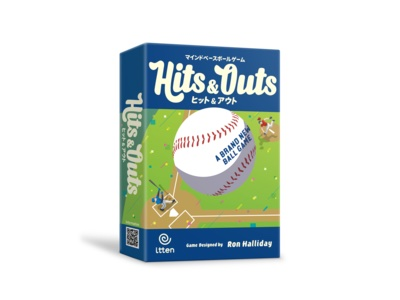
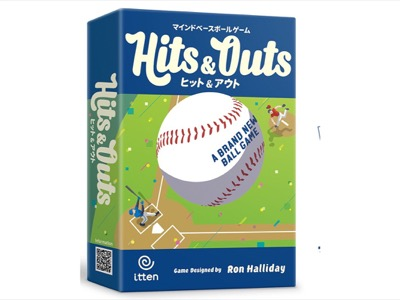
編集パネルから表紙（箱写真）を差し替え可能に／ストライク・ヒット＆アウトの箱写真

diff --git a/index.html b/index.html
@@ -1166,6 +1166,12 @@
   .want-btn.on { background: var(--accent); color: #fff; }
   .want-btn.done { border-color: var(--border); background: var(--bg); color: var(--text-sub); cursor: default; }
   .edit-panel { border-color: var(--accent); }
+  .cover-edit { display: flex; gap: 12px; align-items: flex-start; margin-bottom: 6px; }
+  .cover-edit img { width: 120px; height: 90px; object-fit: contain; background: #fff; border: 1px solid var(--border); border-radius: 8px; flex-shrink: 0; }
+  .cover-edit-body { flex: 1; min-width: 0; display: flex; flex-direction: column; gap: 6px; }
+  .cover-edit-body .photo-add { margin: 0; }
+  .cover-edit-body .link-btn { align-self: flex-start; font-size: 12px; }
+  .cover-edit-body .link-btn.danger { color: #c0392b; }
   .edit-sec-title {
     font-size: 12.5px;
     font-weight: 700;
@@ -2939,7 +2945,7 @@ try {
 // ── 自動更新 ───────────────────────────────
 // iPhoneはHTMLを長く握るので、新しい版が出ていたらURLを変えて読み直す。
 // （同じURLの再読み込みだとキャッシュが返ってきてしまうため）
-const APP_BUILD = "2026-09-11-2120";
+const APP_BUILD = "2026-09-11-2142";
 
 function markVersion(extra) {
   const el = document.getElementById("appVersion");
@@ -3537,6 +3543,8 @@ const IMG_SIZES = {
 };
 
 function gameImg(g, kind) {
+  const ov = g && coverOverride[slugOf(g)];
+  if (ov) return ov;   // 差し替えた箱写真があれば、一覧・詳細・棚すべてそれを使う
   const url = (g && g.img) || "";
   const spec = IMG_SIZES[kind] || IMG_SIZES.card;
   return url.replace(/small_light\([^)]*\)/, "small_light(" + spec + ")");
@@ -3941,7 +3949,8 @@ function fetchAllReviews() {
     fetchCollectionCache("customtags", CUSTOMTAGS_CACHE_KEY).then(c => { customTagsCache = c; }),
     fetchCollectionCache("ruleedits", RULEEDITS_CACHE_KEY).then(c => { ruleEditsCache = c; }),
     fetchProfiles().then(c => { profilesCache = c; }),
-    fetchSessions().then(c => { sessionsCache = c; })
+    fetchSessions().then(c => { sessionsCache = c; }),
+    fetchCoverOverrides()
   ]);
 }
 
@@ -4639,6 +4648,19 @@ const PHOTO_MAX_PX = 1400;
 const PHOTO_MAX_BYTES = 700000;
 let photoCache = {};          // slug -> [写真]
 let photoLoading = {};
+// 差し替えた箱写真（photos の kind="cover"）。起動時に全部まとめて読む
+let coverOverride = {};       // slug -> dataURL
+let coverOverrideId = {};     // slug -> doc id（差し替え・削除用）
+function fetchCoverOverrides() {
+  if (!firebaseReady) return Promise.resolve();
+  return db.collection("photos").where("kind", "==", "cover").get().then(snap => {
+    const rows = [];
+    snap.forEach(d => rows.push(Object.assign({ id: d.id }, d.data())));
+    rows.sort((a, b) => (a.createdAt?.seconds || 0) - (b.createdAt?.seconds || 0));
+    coverOverride = {}; coverOverrideId = {};
+    rows.forEach(r => { coverOverride[r.slug] = r.data; coverOverrideId[r.slug] = r.id; });
+  }).catch(err => console.error("cover取得エラー", err));
+}
 function getPhotos(slug, kind) {
   return (photoCache[slug] || []).filter(p => p.kind === kind);
 }
@@ -4661,14 +4683,14 @@ function fetchPhotos(slug) {
 }
 
 // 端末側で長辺1400pxまで縮め、700KBを超えないところまで品質を落とす
-function shrinkImage(file) {
+function shrinkImage(file, maxPx = PHOTO_MAX_PX) {
   return new Promise((resolve, reject) => {
     const url = URL.createObjectURL(file);
     const img = new Image();
     img.onload = () => {
       URL.revokeObjectURL(url);
       let w = img.naturalWidth, h = img.naturalHeight;
-      const scale = Math.min(1, PHOTO_MAX_PX / Math.max(w, h));
+      const scale = Math.min(1, maxPx / Math.max(w, h));
       w = Math.max(1, Math.round(w * scale));
       h = Math.max(1, Math.round(h * scale));
       const c = document.createElement("canvas");
@@ -4853,6 +4875,19 @@ function buildEditPanel(g) {
     <div class="review-card edit-panel">
       <div class="review-title" style="margin-bottom:4px;">このゲームを編集</div>
       <div class="review-count" style="margin-bottom:10px;">変えたところは、みんなの画面にも反映されます。</div>
+
+      <div class="edit-sec-title">表紙（箱の写真）</div>
+      <div class="cover-edit">
+        <img src="${coverSrc(slug)}" alt="表紙" onerror="this.src='${gameImg(g, "card")}'">
+        <div class="cover-edit-body">
+          <div class="review-count">背景が白い「箱だけ」の写真だと棚がきれいに見えます。一覧・詳細・棚に反映されます。</div>
+          <label class="photo-add">
+            <input type="file" accept="image/*" data-cover-add="${slug}" hidden>
+            📷 ${coverOverride[slug] ? "別の写真に差し替える" : "箱の写真に差し替える"}
+          </label>
+          ${coverOverride[slug] ? `<button type="button" class="link-btn ${pendingPhotoDelete === "cover:" + slug ? "danger" : ""}" data-cover-reset="${slug}">${pendingPhotoDelete === "cover:" + slug ? "本当に元に戻す？" : "元の写真に戻す"}</button>` : ""}
+        </div>
+      </div>
 
       <div class="edit-sec-title">ジャンル・メカニクス・ハッシュタグ</div>
       ${buildClassGrid(g)}
@@ -5363,6 +5398,24 @@ document.getElementById("detailView").addEventListener("click", async e => {
     const table = moreRatings.closest("table");
     const open = table.classList.toggle("open");
     moreRatings.textContent = open ? "たたむ" : moreRatings.dataset.label;
+    return;
+  }
+  const coverReset = e.target.closest("[data-cover-reset]");
+  if (coverReset) {
+    const slug = coverReset.dataset.coverReset;
+    if (pendingPhotoDelete !== "cover:" + slug) {
+      pendingPhotoDelete = "cover:" + slug;
+      coverReset.textContent = "本当に元に戻す？"; coverReset.classList.add("danger");
+      setTimeout(() => { if (pendingPhotoDelete === "cover:" + slug) { pendingPhotoDelete = ""; const g = currentDetailGame(); if (g) showDetail(g); } }, 4000);
+      return;
+    }
+    pendingPhotoDelete = "";
+    const id = coverOverrideId[slug];
+    if (id) await deletePhoto(slug, id);
+    delete coverOverride[slug]; delete coverOverrideId[slug];
+    const g = currentDetailGame();
+    if (g) showDetail(g);
+    toast("元の写真に戻しました");
     return;
   }
   if (e.target.closest("[data-detail-edit]")) {
@@ -6375,6 +6428,31 @@ function toast(msg) {
 
 // 写真を選んだら、その場で縮めて保存する
 document.getElementById("detailView").addEventListener("change", async e => {
+  const coverInput = e.target.closest("[data-cover-add]");
+  if (coverInput && coverInput.files && coverInput.files[0]) {
+    const file = coverInput.files[0];
+    const slug = coverInput.dataset.coverAdd;
+    const name = ensureMyName();
+    coverInput.value = "";
+    if (!name) return;
+    toast("写真を用意しています…");
+    try {
+      const data = await shrinkImage(file, 800);
+      const oldId = coverOverrideId[slug];
+      const id = await addPhoto(slug, "cover", data, name);
+      if (id) {
+        coverOverride[slug] = data; coverOverrideId[slug] = id;
+        if (oldId) await deletePhoto(slug, oldId);   // 先に足してから古いほうを消す
+        toast("表紙を差し替えました");
+      }
+      const g = currentDetailGame();
+      if (g) showDetail(g);
+    } catch (err) {
+      console.error("表紙の処理に失敗", err);
+      toast(err.message || "この写真は使えませんでした");
+    }
+    return;
+  }
   const input = e.target.closest("[data-photo-add]");
   if (!input || !input.files || !input.files[0]) return;
   const file = input.files[0];
@@ -7817,7 +7895,7 @@ function shelfGames(name) {
     .slice(0, SHELF_COLS * SHELF_ROWS);
 }
 function coverSrc(slug) {
-  return `data/covers/${slug}.jpg`;
+  return coverOverride[slug] || `data/covers/${slug}.jpg`;
 }
 function buildShelf(name) {
   const list = shelfGames(name);

diff --git a/fetch_covers.py b/fetch_covers.py
@@ -15,6 +15,9 @@ for g in games:
     dst = os.path.join(out, slug + ".jpg")
     if os.path.exists(dst) and os.path.getsize(dst) > 0:
         skipped += 1; continue
+    if picks.get(slug) == "manual":
+        # 手作業で置いた画像（data/covers に直接コピー済み）。自動取得しない
+        skipped += 1; continue
     src = re.sub(r"small_light\([^)]*\)", "small_light(" + SIZE + ")", g["img"])
     if slug in picks:
         src = src.rsplit("/", 1)[0] + "/" + picks[slug]
